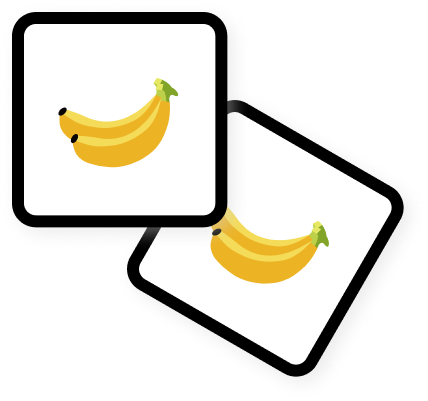
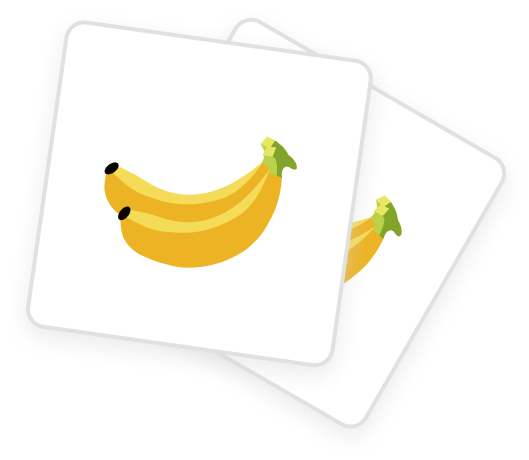
fix: bananacard ui

diff --git a/widgets/home/memory-game-card/index.tsx b/widgets/home/memory-game-card/index.tsx
@@ -21,7 +21,7 @@ export default function MemoryGameCard({
   title,
   body,
   ctaLabel,
-  image = require("@/assets/images/banana-cards.jpg"),
+  image = require("@/assets/images/banana-cards_02.png"),
   onPress,
 }: Props) {
   const inner = (
@@ -82,7 +82,7 @@ const s = StyleSheet.create({
     position: "absolute",
     right: 16,
     top: 20,
-    width: 56,
+    width: 66,
     height: 70,
     resizeMode: "contain",
   },
